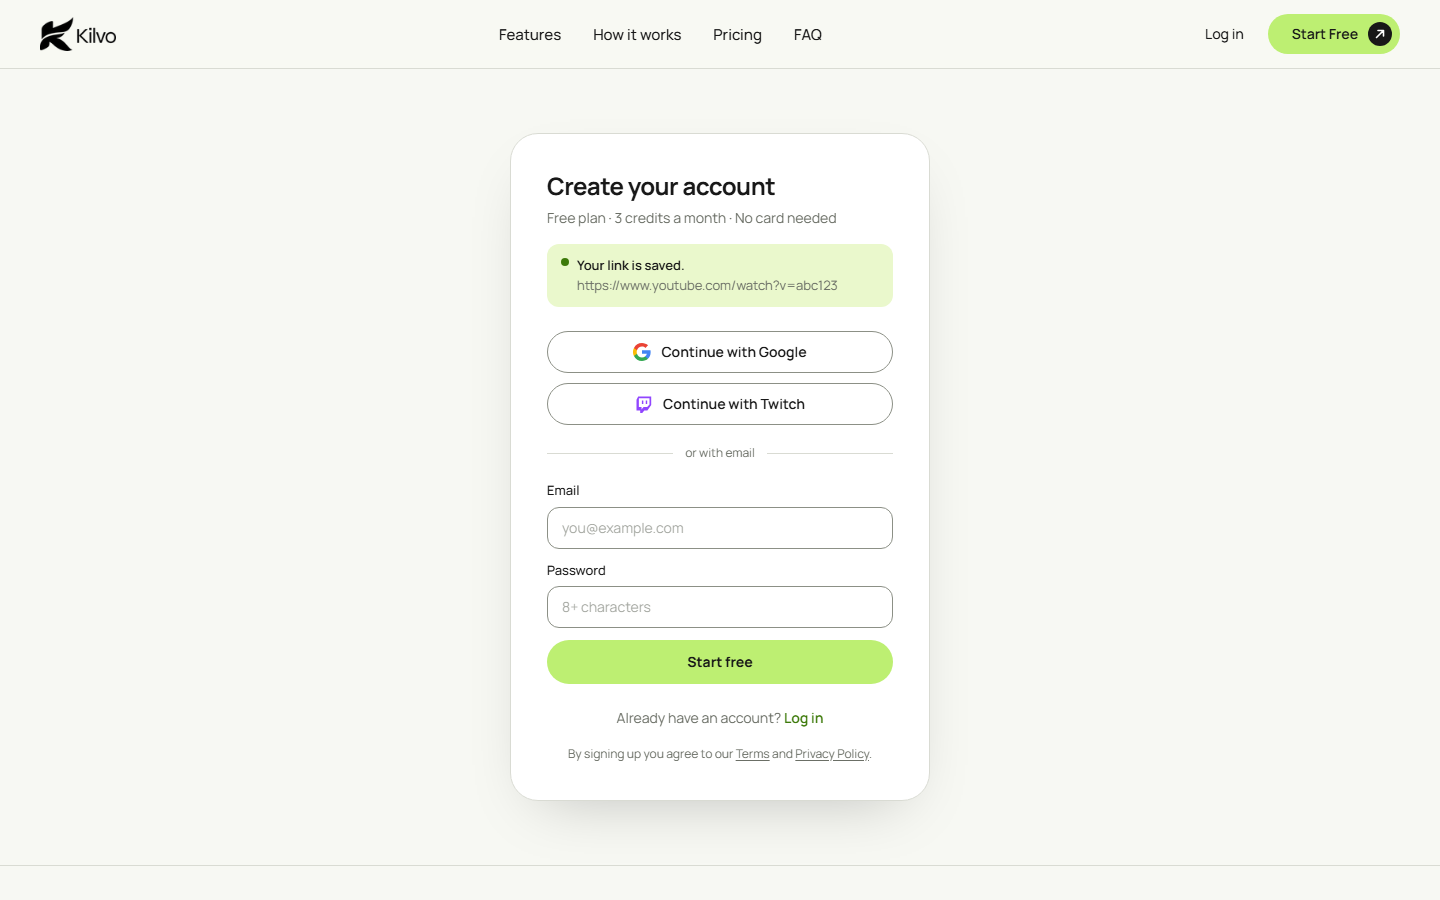
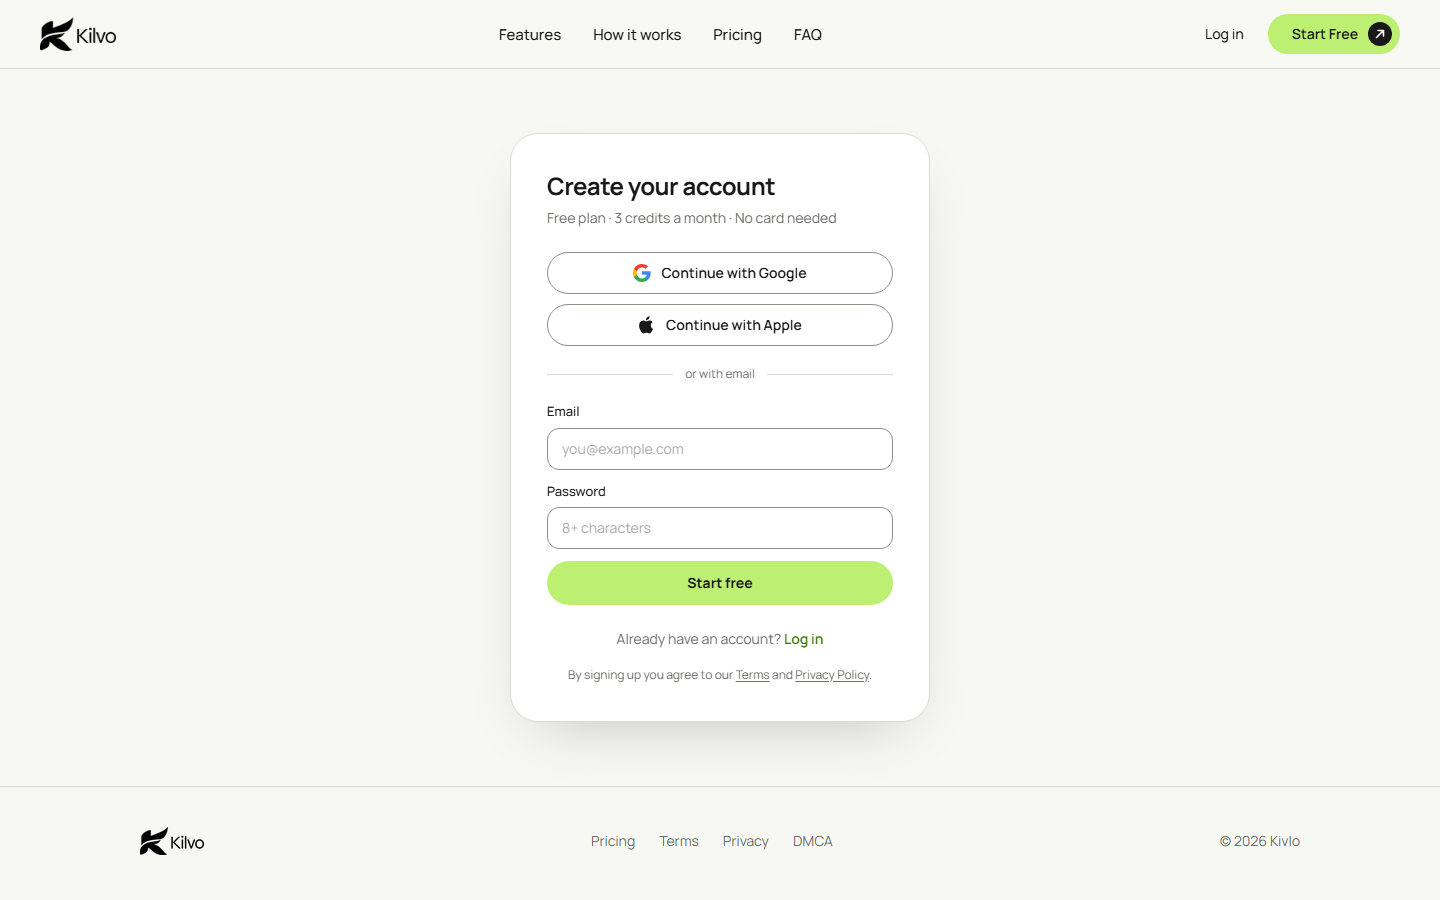
Auth: swap Twitch for Sign in with Apple
Generated with [Devin](https://devin.ai)

diff --git a/src/web/components/AuthCard.tsx b/src/web/components/AuthCard.tsx
@@ -27,12 +27,12 @@ function GoogleIcon() {
   );
 }
 
-function TwitchIcon() {
+function AppleIcon() {
   return (
     <svg width="18" height="18" viewBox="0 0 24 24" aria-hidden="true">
       <path
-        fill="#9146FF"
-        d="M4.27 2 2 6.4v14.14h4.93V24h2.74l2.74-3.46h4.11L21.6 13.4V2H4.27Zm15.06 10.5-3.07 3.46h-4.8l-2.74 3.47v-3.47H5.15V4.27h14.18v8.23Zm-3.08-5.14v4.8h-1.9v-4.8h1.9Zm-5.14 0v4.8H9.2v-4.8h1.91Z"
+        fill="currentColor"
+        d="M17.05 12.54c-.03-2.89 2.36-4.28 2.47-4.35-1.34-1.97-3.44-2.24-4.18-2.27-1.78-.18-3.47 1.05-4.37 1.05-.9 0-2.29-1.02-3.77-1-1.94.03-3.72 1.13-4.72 2.86-2.01 3.49-.51 8.66 1.45 11.49.96 1.39 2.1 2.95 3.6 2.89 1.45-.06 1.99-.93 3.74-.93s2.24.93 3.77.9c1.56-.02 2.55-1.41 3.5-2.81 1.1-1.61 1.55-3.17 1.58-3.25-.04-.02-3.03-1.16-3.07-4.58ZM14.16 4.06c.8-.97 1.34-2.32 1.19-3.66-1.15.05-2.55.77-3.38 1.74-.74.85-1.39 2.23-1.22 3.54 1.29.1 2.6-.65 3.41-1.62Z"
       />
     </svg>
   );
@@ -83,8 +83,8 @@ export default function AuthCard({ mode }: { mode: "login" | "signup" }) {
           onClick={pending}
           className="flex w-full items-center justify-center gap-2.5 rounded-full border border-control-border bg-white py-2.5 text-sm font-semibold text-ink transition-colors duration-150 hover:bg-mist/60"
         >
-          <TwitchIcon />
-          Continue with Twitch
+          <AppleIcon />
+          Continue with Apple
         </button>
       </div>
 

diff --git a/docs/DECISIONS.md b/docs/DECISIONS.md
@@ -48,4 +48,4 @@ Format: `YYYY-MM-DD: decision. Why.`
 - 2026-11-23: Nav uses the founder's logo image (K + wordmark). The logo reads "Kilvo" while the site copy says "Kivlo"; waiting on the founder to confirm which spelling is correct.
 - 2026-11-23: Fonts v3.3: Clash Display only for the hero h1 and final CTA; Manrope for section headings, cards, UI and body. Founder asked for better fonts on the features section and other pages.
 - 2026-11-23: Added raw clips from CLIPS_READY_TO_EDIT (several streamers) as short muted loops, plus a scroll-driven clip wall. Founder asked for variety and videos that play while scrolling.
-- 2026-11-23: Legal pages drafted (terms/privacy/dmca) with placeholder emails legal@/privacy@/dmca@kivlo.com — mailboxes must be set up before launch, and a lawyer should review. Auth pages designed for Google + Twitch + email (Supabase providers); not wired to a backend yet. Nav font switched to Manrope per founder feedback.
+- 2026-11-23: Legal pages drafted (terms/privacy/dmca) with placeholder emails legal@/privacy@/dmca@kivlo.com — mailboxes must be set up before launch, and a lawyer should review. Auth pages designed for Google + Apple + email (Supabase providers); not wired to a backend yet. Nav font switched to Manrope per founder feedback.
